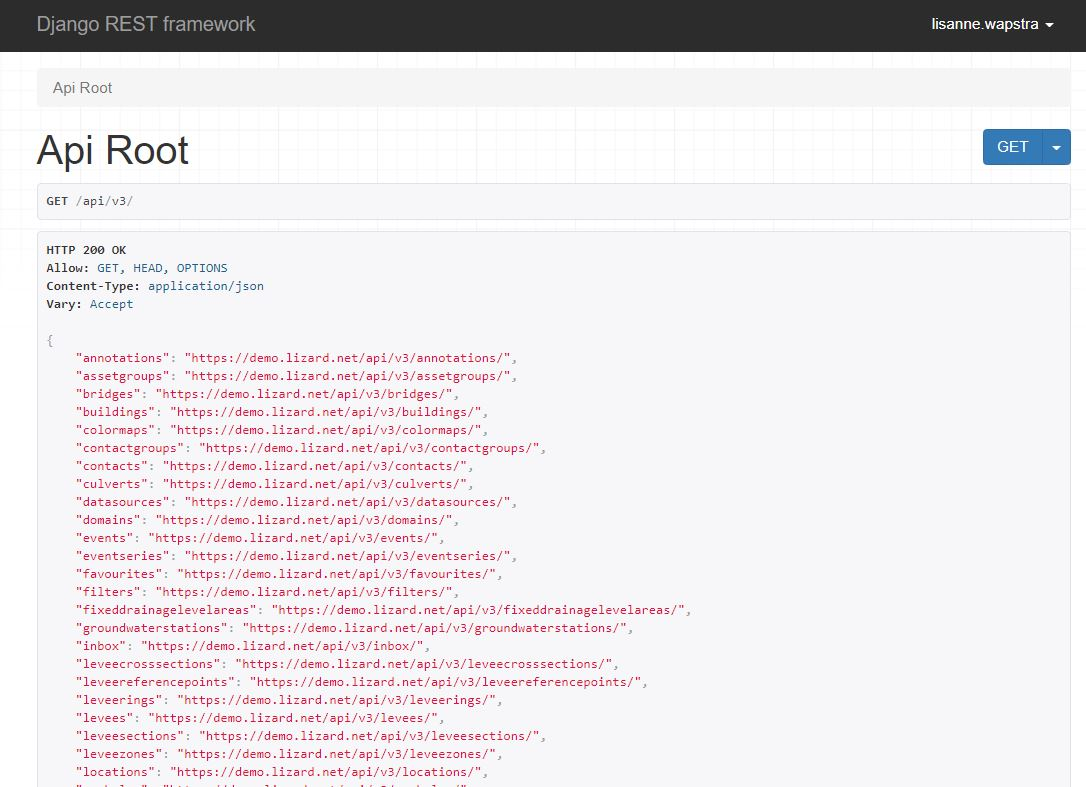
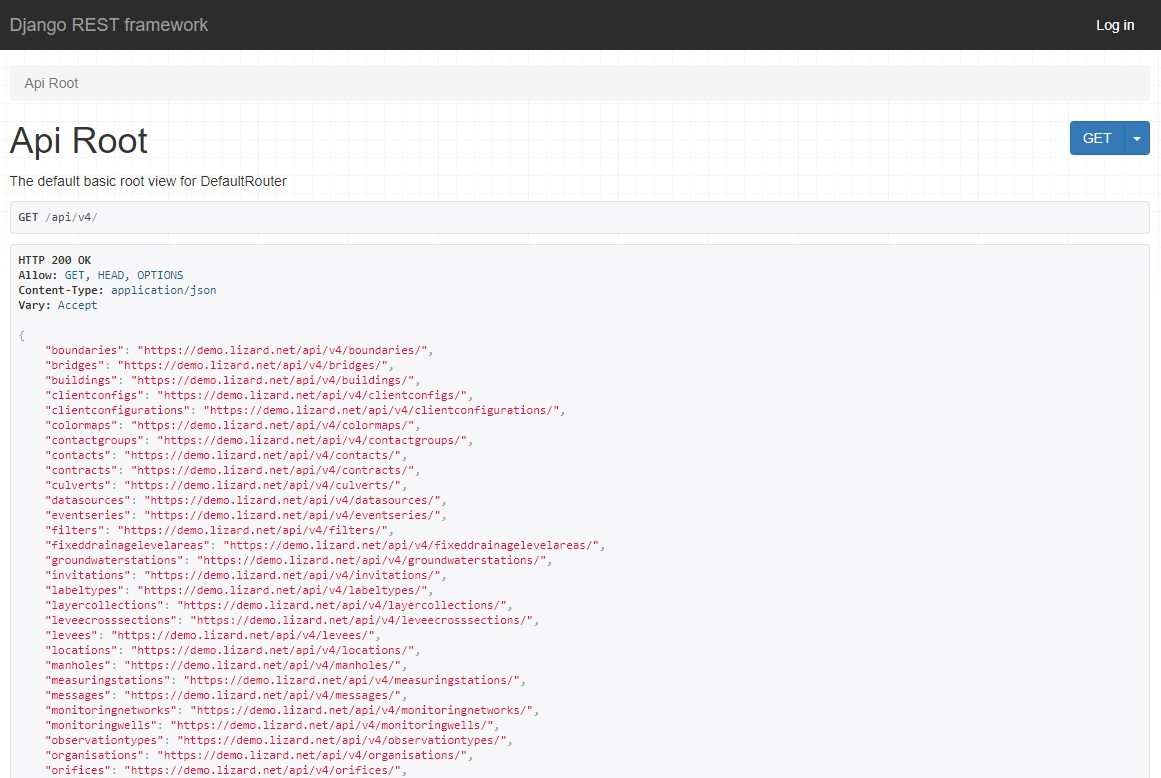
Update images to API v4

diff --git a/source/d_apitechnical.rst b/source/d_apitechnical.rst
@@ -162,7 +162,7 @@ This section describes timeseries-related endpoints.
 
     **Example request:**
 
-        GET  https://demo.lizard.net/api/v4/timeseries/f1f20885-b09b-40fa-a717-1bfd4dffa60e/
+        GET  https://demo.lizard.net/api/v4/timeseries/1bcba36e-781d-4339-9632-00d5398c3b15/
 		
 	**Example response:**
 	    	
@@ -177,7 +177,7 @@ This section describes location-related endpoints.
 
     **Example request:**
 
-        GET https://demo.lizard.net/api/v4/locations/6eb648bf-c5a4-4566-ac7a-1311ec69921c/
+        GET https://demo.lizard.net/api/v4/locations/faa84a55-cb8d-460c-a8b8-18d2b59da28c/
 		
 	**Example response:**
 	    	
